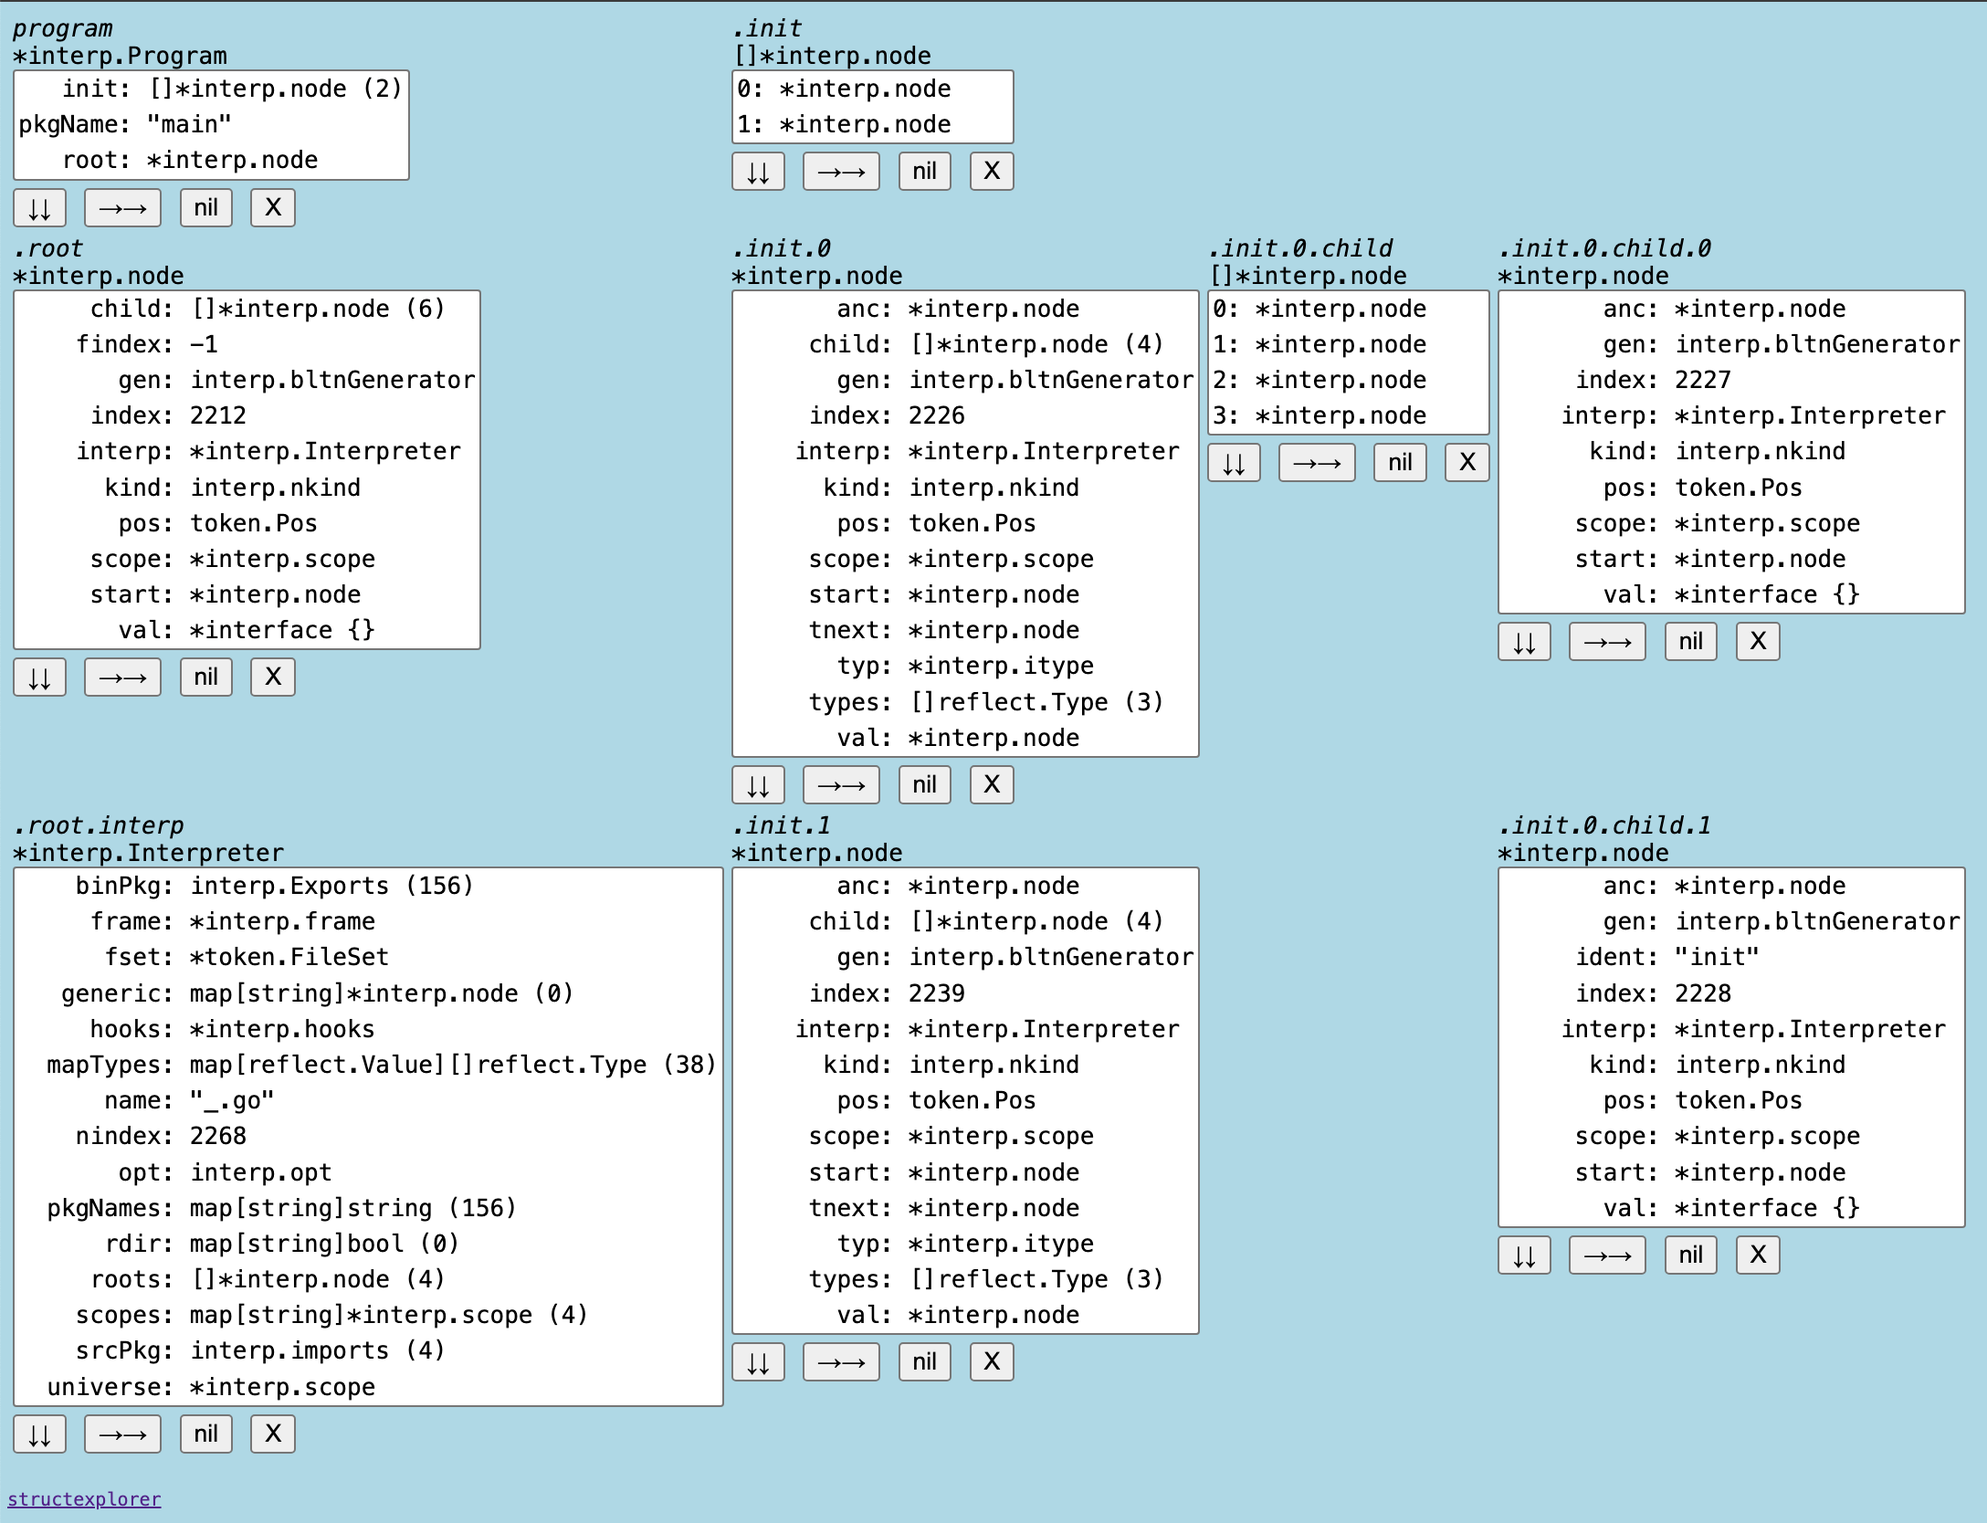
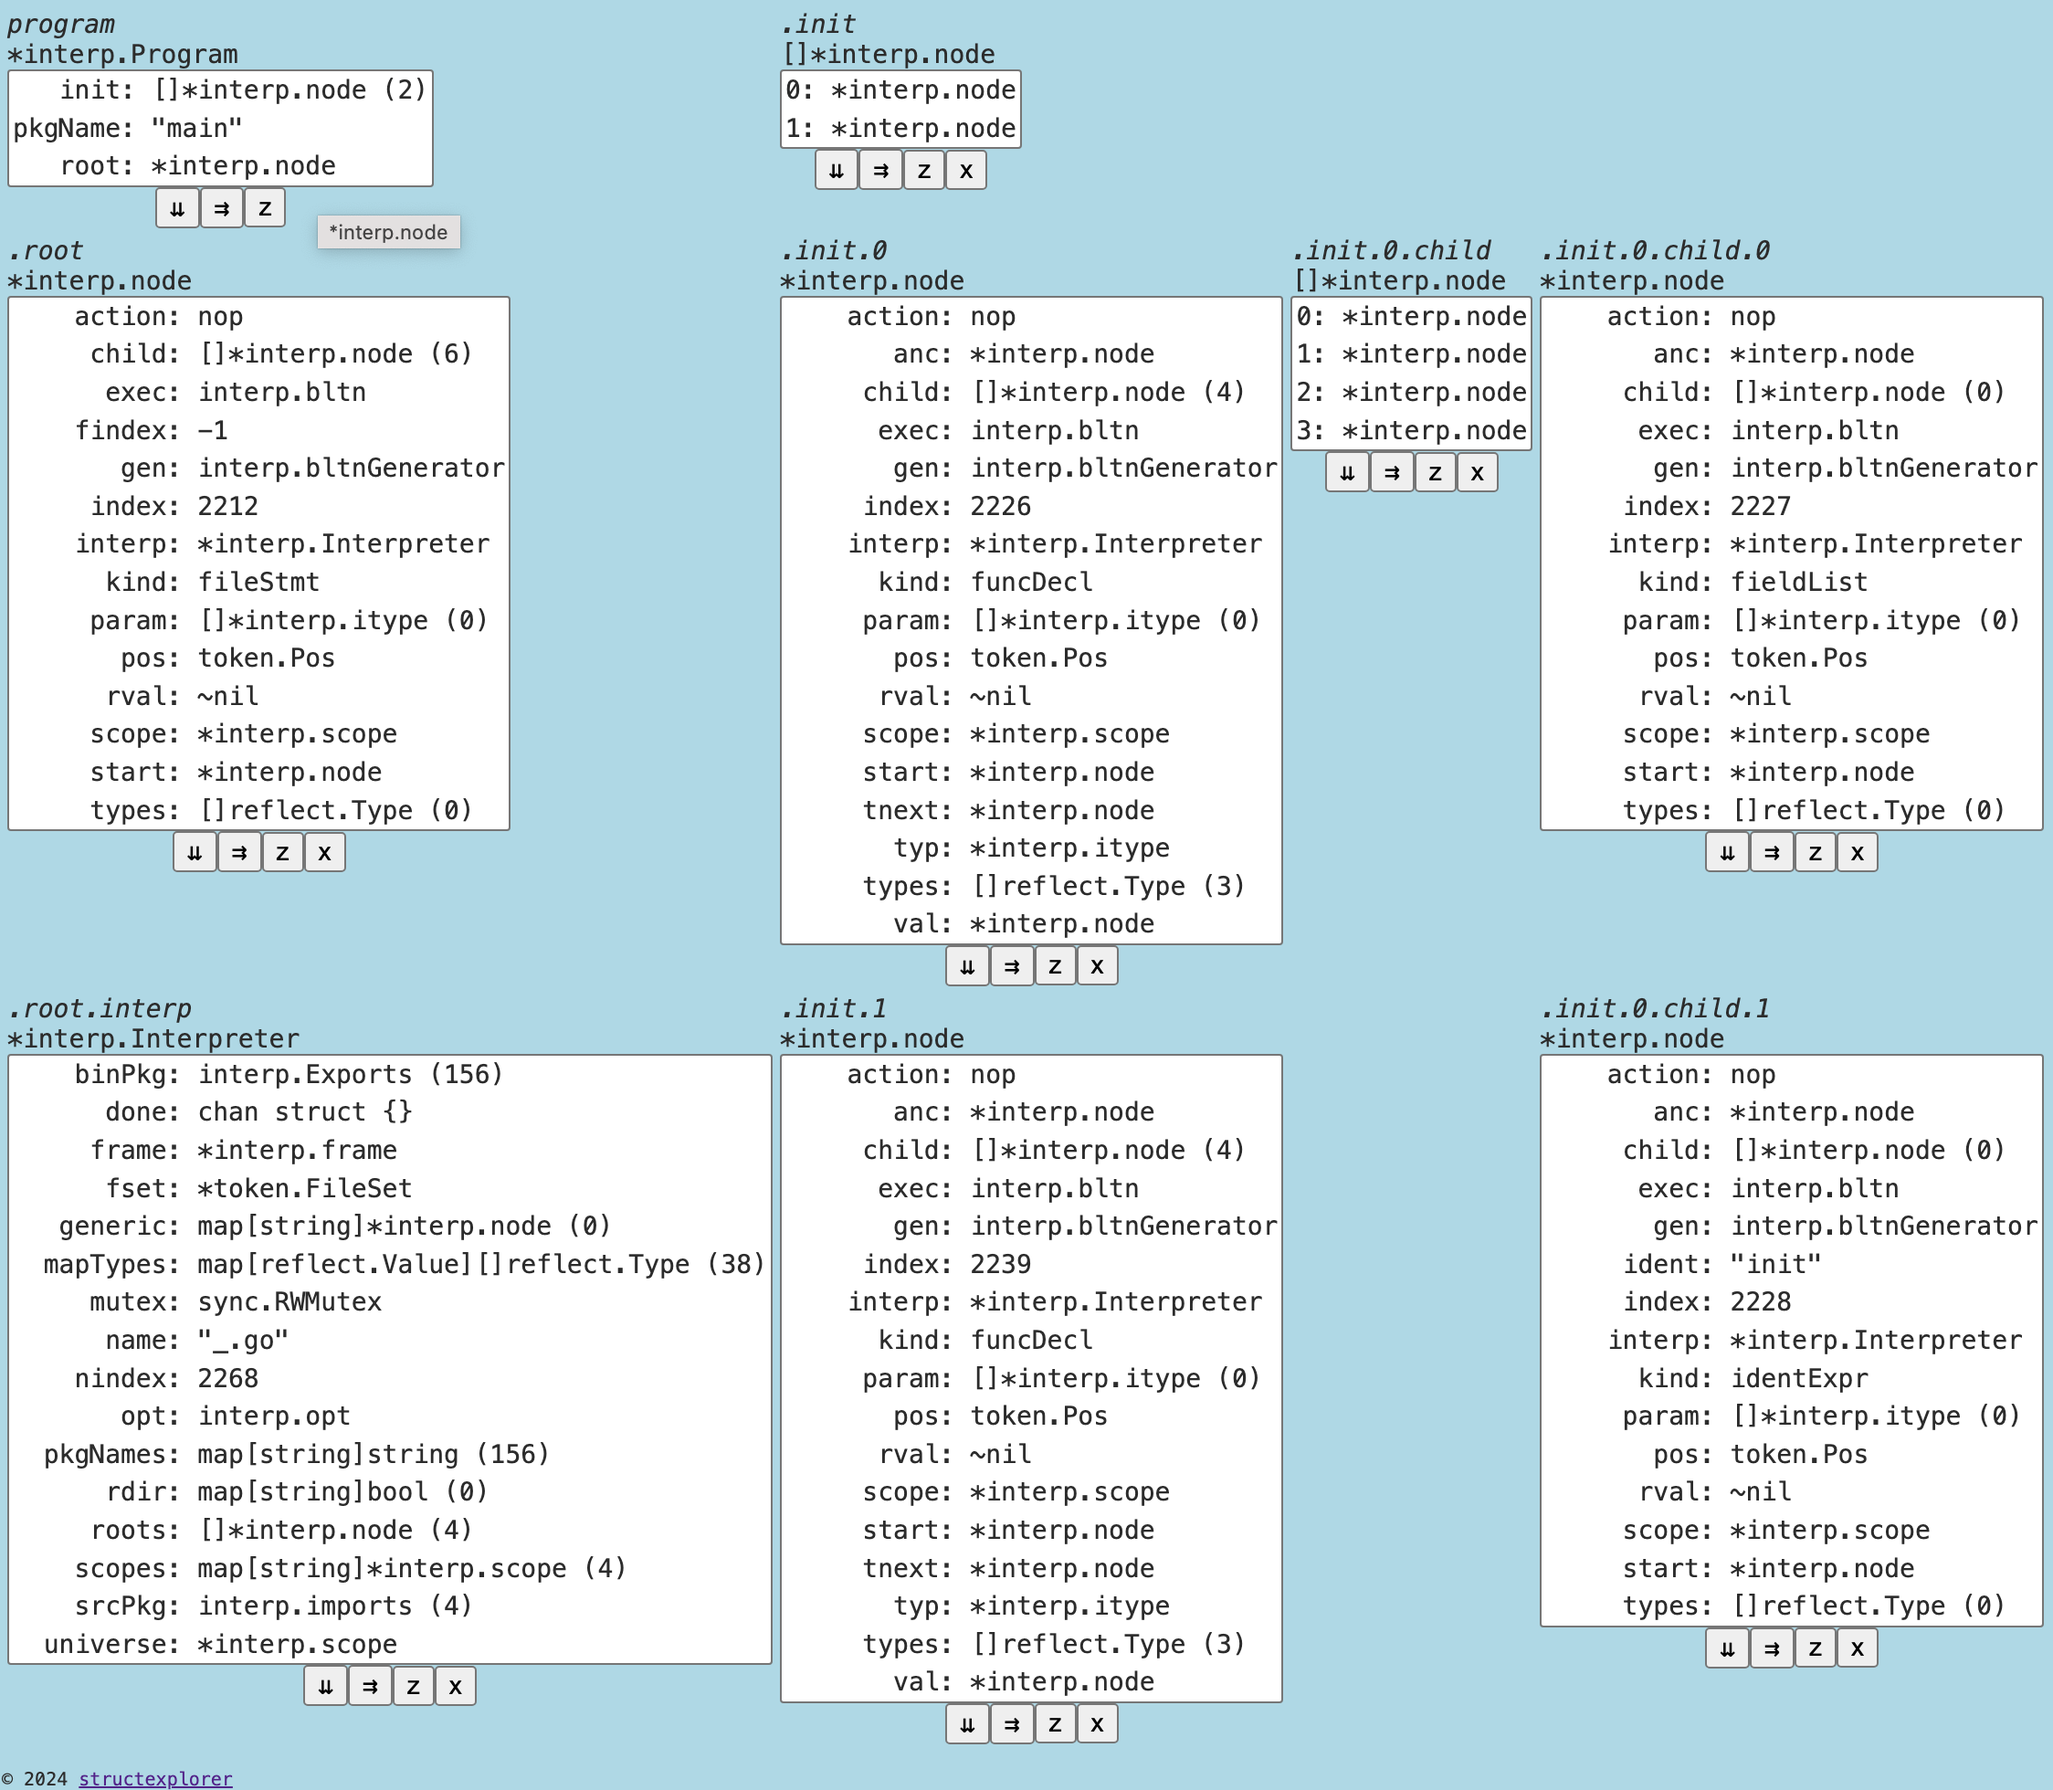
nil -> z(eros)

Changed region(s): [[0.0, 0.0, 1.0, 1.0], [0.0, 0.0, 0.25, 0.4988], [0.75, 0.53, 1.0, 0.9353]]

diff --git a/index_tmpl.html b/index_tmpl.html
@@ -23,7 +23,7 @@
     <div class="buttonbar">
         <button class="btn" onclick="javascript:explore({{.Row}},{{.Column}},getElementById('{{.SelectID}}'),'down');">&ddarr;</button>
         <button class="btn" onclick="javascript:explore({{.Row}},{{.Column}},getElementById('{{.SelectID}}'),'right');">&rrarr;</button>
-        <button class="btn" onclick="javascript:explore({{.Row}},{{.Column}},getElementById('{{.SelectID}}'),'toggleNils');">nil</button>
+        <button class="btn" onclick="javascript:explore({{.Row}},{{.Column}},getElementById('{{.SelectID}}'),'toggleZeros');">z</button>
         {{- if not .IsRoot }}
             <button class="btn" onclick="javascript:explore({{.Row}},{{.Column}},getElementById('{{.SelectID}}'),'remove');">x</button>
         {{- end }}

diff --git a/service.go b/service.go
@@ -30,7 +30,11 @@ func (s *service) init() {
 			return printString(f.value())
 		},
 		"includeField": func(f fieldEntry, s string) bool {
-			return s != "nil" || f.hideNil
+			switch s {
+			case `""`, "0", "false", "nil":
+				return f.hideZero
+			}
+			return true
 		},
 		"fieldLabel": func(f fieldEntry) string {
 			return f.displayKey()
@@ -154,7 +158,7 @@ func (s *service) serveInstructions(w http.ResponseWriter, r *http.Request) {
 			slog.Warn("cannot remove root struct", "object", o.label, "row", cmd.Row, "column", cmd.Column)
 		}
 		return
-	case "toggleNils":
+	case "toggleZeros":
 		s.explorer.updateObjectAt(cmd.Row, cmd.Column, func(access objectAccess) objectAccess {
 			access.hideNils = !access.hideNils
 			return access

diff --git a/README.md b/README.md
@@ -23,7 +23,7 @@ then a HTTP service will be started
 
 - ⇊ : explore one or more selected values from the list and put them below
 - ⇉ : explore one or more selected values from the list and put them on the right
-- nil : show or hide fields which currently have nil value
+- z : show or hide fields which currently have zero value ("",0,nil,false)
 - x : remove the struct from the page
 
 
